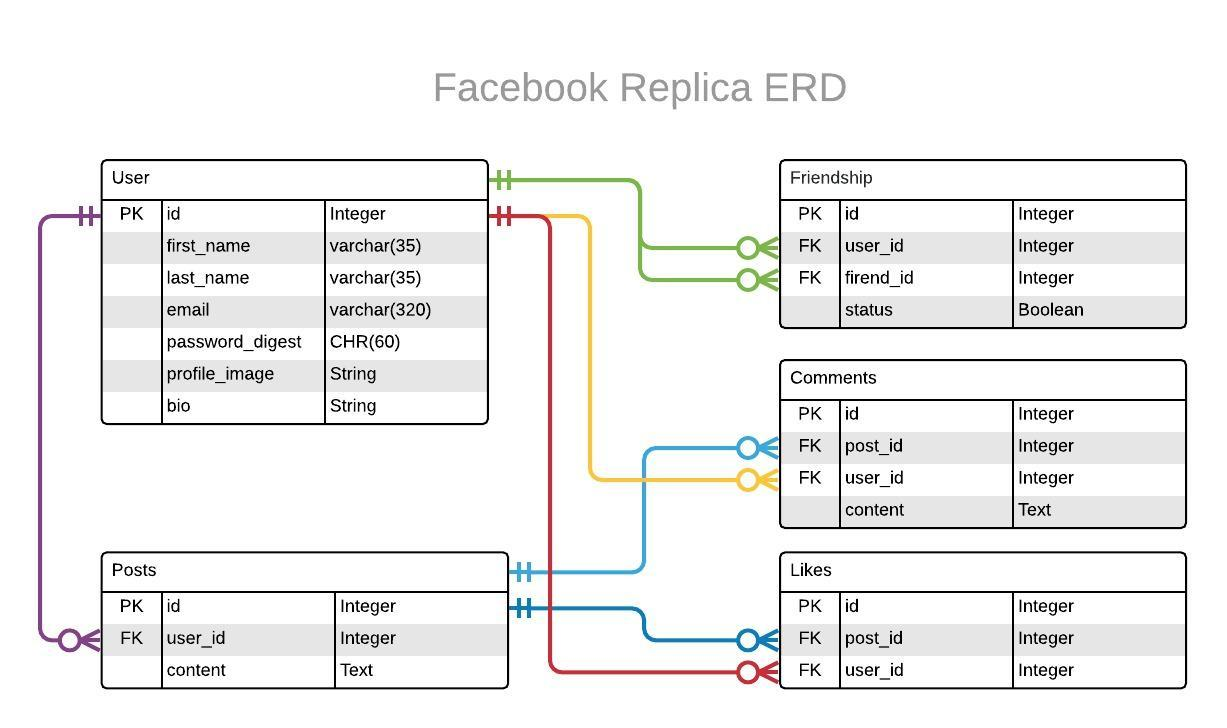
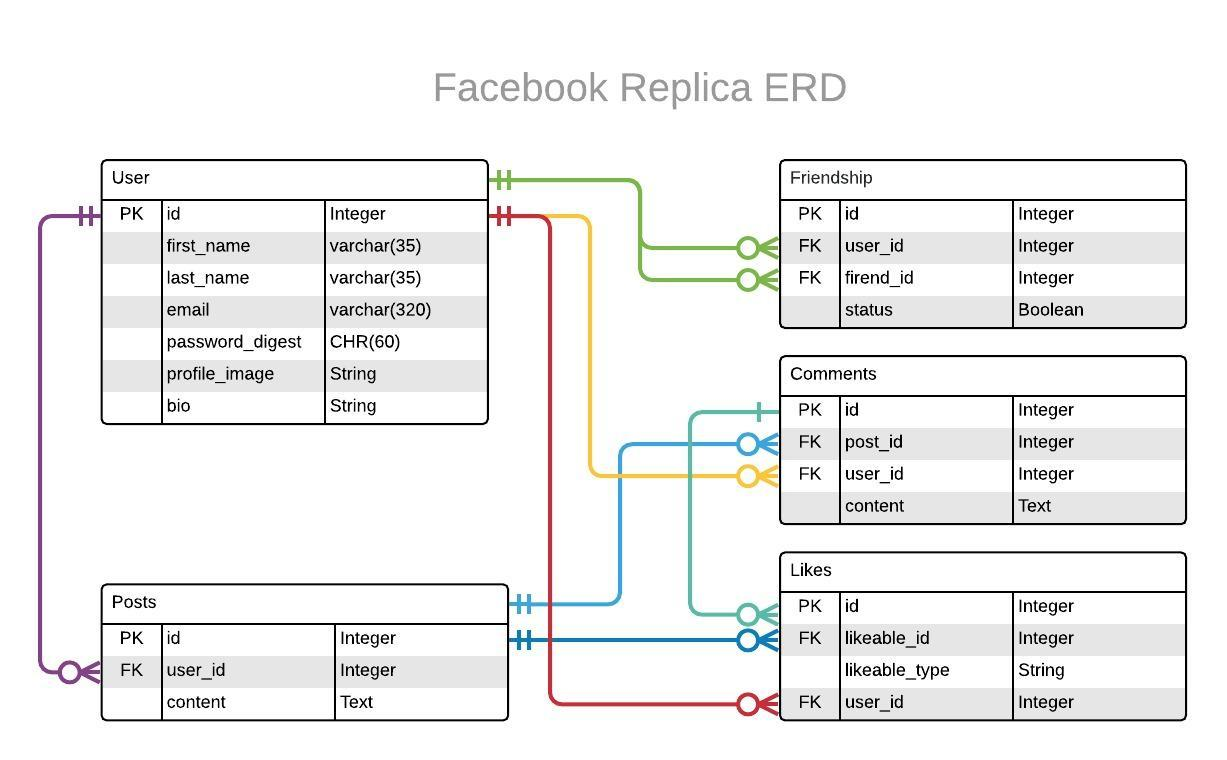
update documentations

Changed region(s): [[0.031, 0.2115, 0.991, 0.967], [0.031, 0.2115, 0.5265, 0.6044], [0.3407, 0.0907, 0.6813, 0.1511]]

diff --git a/README.md b/README.md
@@ -5,16 +5,22 @@
 Herouku link // later
   
 ## Features
-  - **User**
+  - **Users**
     - Sign-up / login / logout
     - Show profile page
     - Create / update / delete posts
     - Has many posts
 
-  - **Post**
+  - **Posts**
     - Create / update / delete
     - Show in chronological update order
     - Belongs to a User
+
+  - **Comments**
+    - Create / update / delete
+
+  - **Likes**
+    - Like / unlike comments and/or posts
 
 ## Local Installation
 
